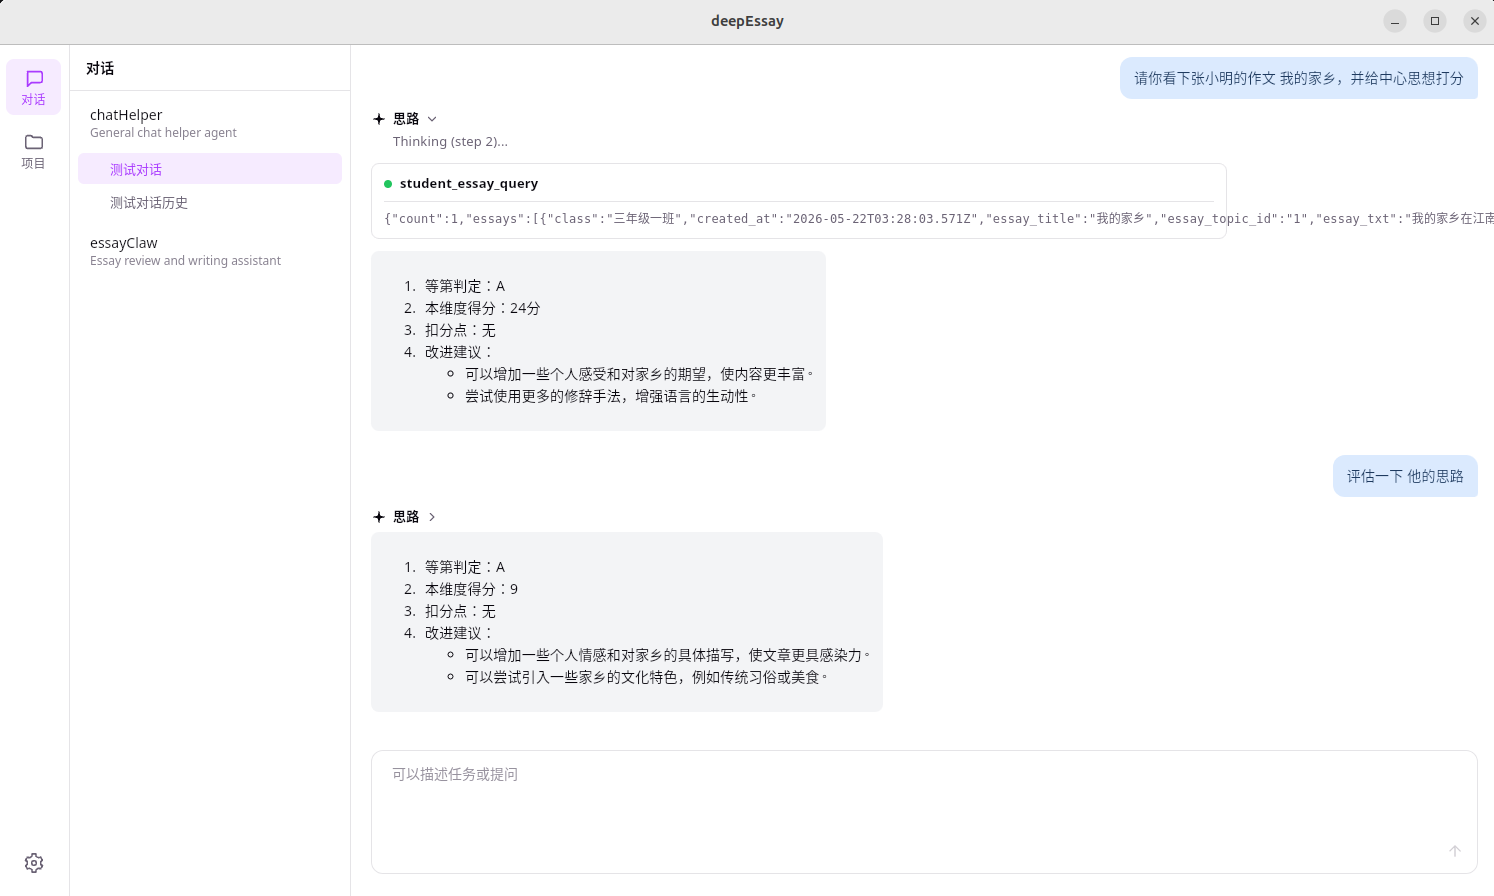
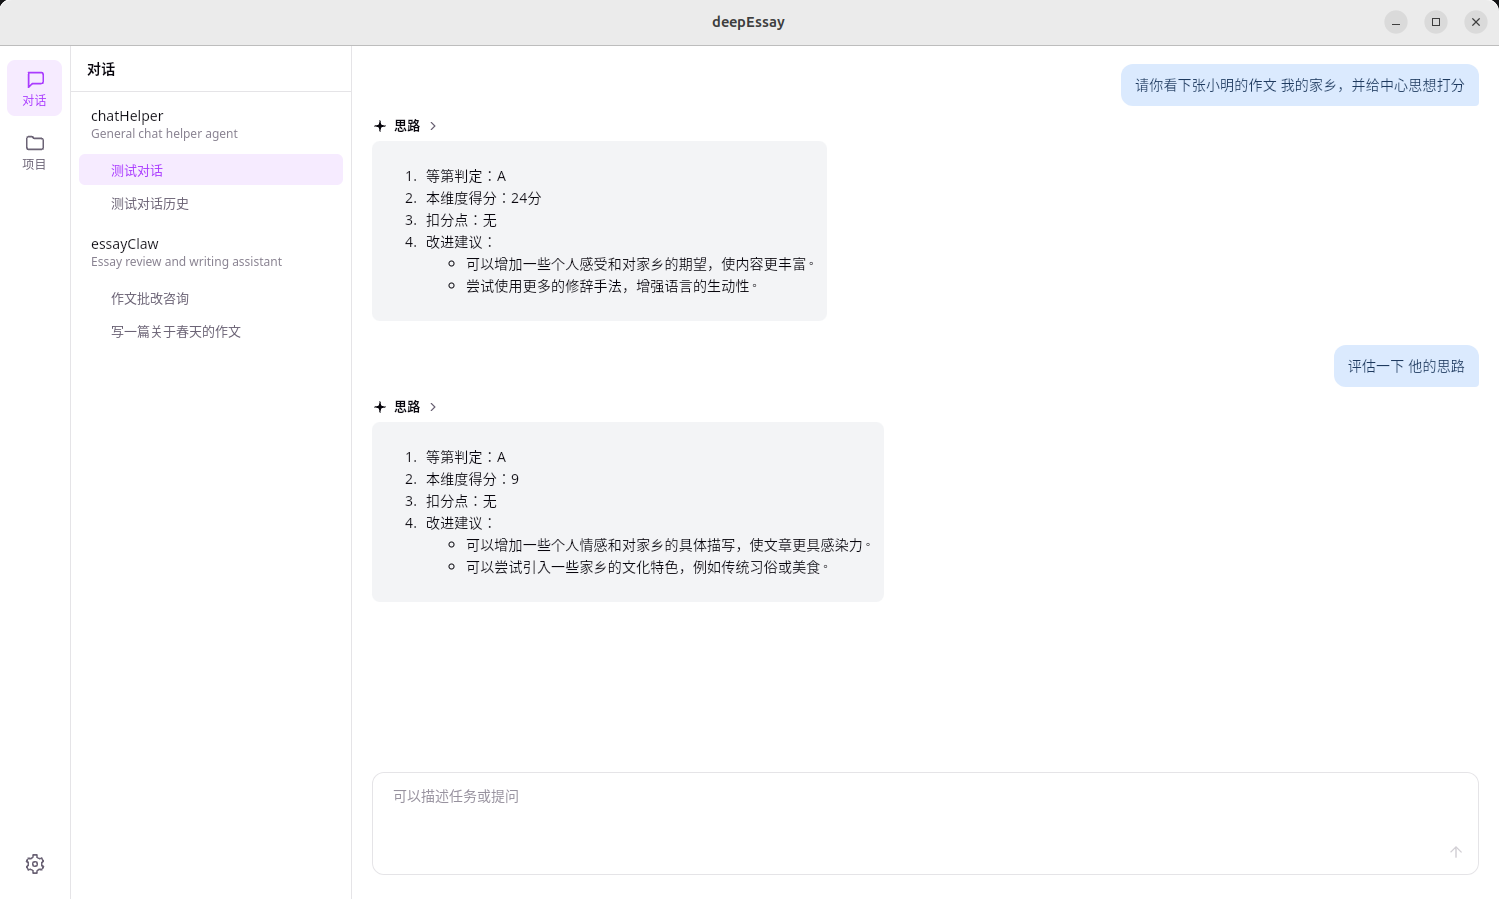
clean up

diff --git a/README.md b/README.md
@@ -28,19 +28,16 @@ deepEssay 项目的外层仓库，存放架构文档、功能展示截图与 Tok
 - **消息持久化** — 基于 libSQL 的完整对话历史存储
 - **多通道支持** — Tauri IPC (前端 SSE) + CLI REPL 双通道架构
 
+### 源码统计
+
+Rust 后端 `backend/src/` 下的源码统计：
+
+- 文件数：82 个 `.rs` 文件
+- 代码行数：10,814 行
+
 ## 功能展示
 
 ![功能展示](function/功能展示.png)
-
-## Token 消耗
-
-### 2026年4月
-
-![4月Token消耗](token_consumption/4月token消耗.png)
-
-### 2026年5月
-
-![5月Token消耗](token_consumption/5月token消耗.png)
 
 ## 本仓库结构
 
@@ -121,3 +118,15 @@ deepEssayOuter/
 待完成功能包括：审批流程 (Approval)、上下文压缩、多 LLM Provider 支持、前端剩余页面完善、ToolCall 可视化等。
 
 完整清单详见 [architecture.md 第14节](docs/architecture.md#14-当前开发状态-2026-05-22)。
+
+## Token 消耗
+
+### 2026年4月
+
+![4月Token消耗](token_consumption/4月token消耗.png)
+
+### 2026年5月
+
+![5月Token消耗](token_consumption/5月token消耗.png)
+
+总 Token 消耗 2 亿+。